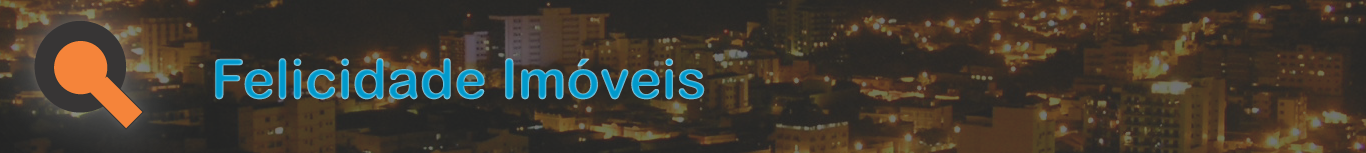
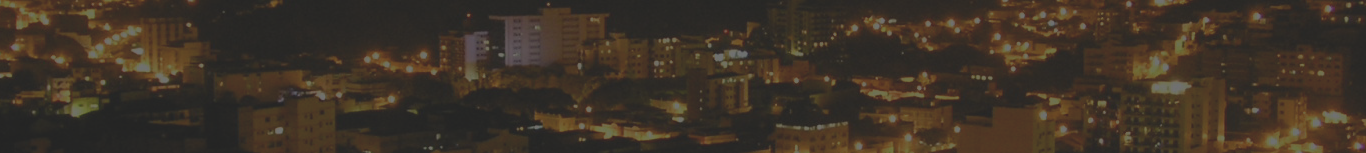
cabecalhonovo

Changed region(s): [[0.1537, 0.366, 0.5227, 0.6536], [0.0, 0.0784, 0.123, 0.8627], [0.4612, 0.3922, 0.4919, 0.4183]]

diff --git a/css/cabecalho1.0.css b/css/cabecalho1.0.css
@@ -1,3 +1,12 @@
+header .img-responsive{
+	position: absolute;
+	padding-top: 8px;
+	padding-left: 10px;
+}
 body header .navbar{
 	margin-bottom: 0px;
+}
+.cabecalhoprincipal{
+	overflow-x: hidden;
+	overflow-y: hidden;
 }

diff --git a/css/home.css b/css/home.css
@@ -2,7 +2,7 @@
 	max-width: none;
 }
 .item{
-	height: 500px;
+	height: 700px;
 	overflow: hidden;
 }
 /*QuickView*/

diff --git a/cabecalho.php b/cabecalho.php
@@ -3,7 +3,6 @@
 <head>
   <meta charset="UTF-8">
   <link rel="stylesheet" href="css/reset.css">
-
   <link rel="stylesheet" href="css/cabecalho1.0.css">
   <meta name="viewport" content="width=device-width, initial-scale=1.0">
   <title></title>
@@ -11,8 +10,10 @@
 <body>
   <!--cabeçalho-->
   <header>
-
-    <div class="imgcabeca"></div>
+    <div class="cabecalhoprincipal">
+      <img id="cb" class="img-responsive" src="img/logocabecalho.png" alt="logotipo">
+      <img src="img/cabecalho.png" alt="imagem do cabecalho">
+    </div>
     <!-- Navigation -->
     <nav class="navbar navbar-default">
       <div class="container-fluid">

diff --git a/index.php b/index.php
@@ -16,7 +16,6 @@
 	<header>
 		<?php include 'cabecalho.php'; ?>
 	</header>
-
 	<!--slide-->
 	<section>
 		<div id="slide" class="carousel slide" data-ride="carousel">
